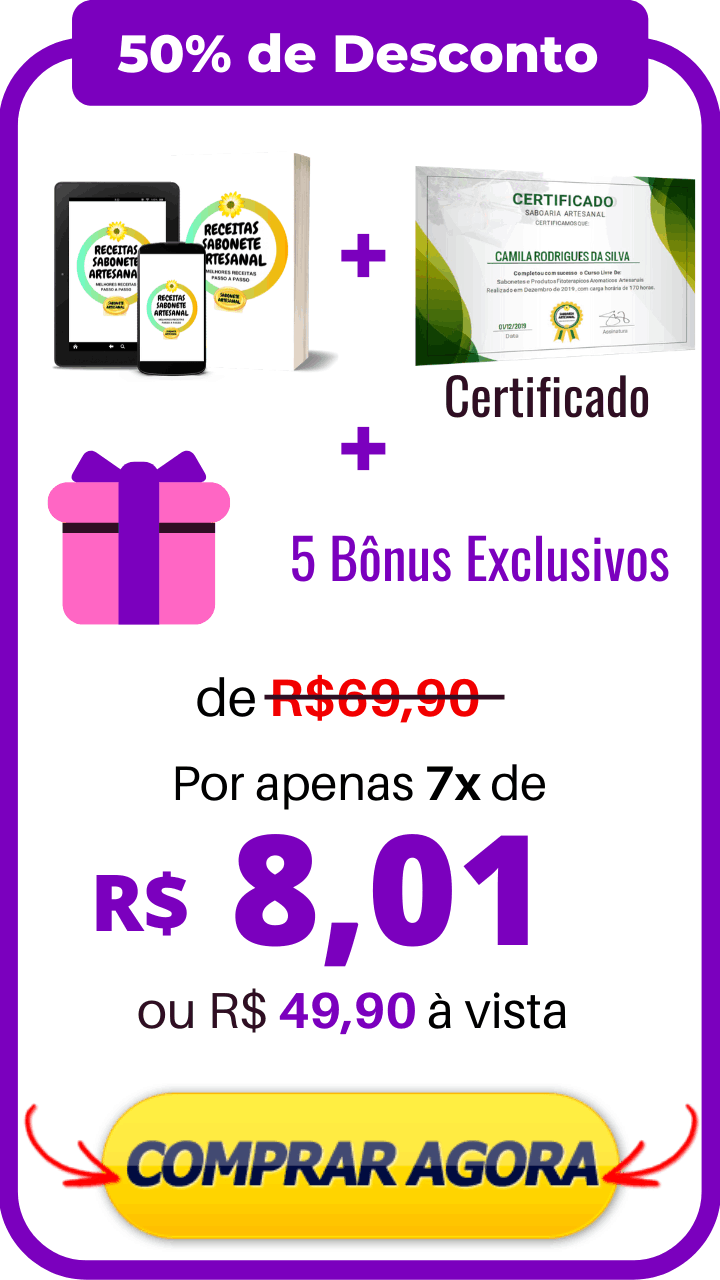
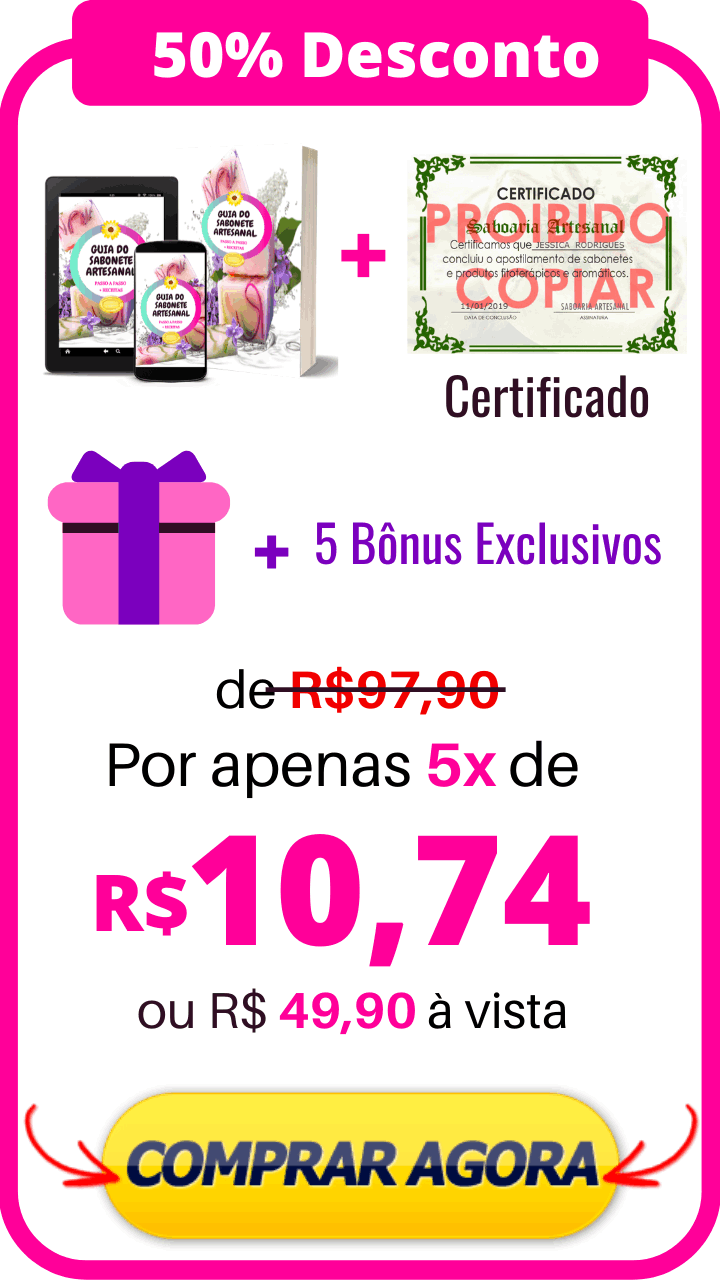
create github pages

diff --git a/index.html b/index.html
@@ -53,7 +53,7 @@
     </nav>
 </section>
 
-<section class="engine"><a href="https://mobirise.info/v">free html templates</a></section><section class="cid-rNkB3DAp2e" id="image3-33">
+<section class="engine"><a href="https://mobirise.info/k">develop free website</a></section><section class="cid-rNkB3DAp2e" id="image3-33">
 
     
 
@@ -694,36 +694,6 @@ Video como Fazer Sabonete de Camomila<br>✔ Video como fazer sabonete aromatico
     </figure>
 </section>
 
-<section class="mbr-section content5 cid-rKVz5dtmLl" id="content5-2o">
-
-    
-
-    
-
-    <div class="container">
-        <div class="media-container-row">
-            <div class="title col-12 col-md-8">
-                <h2 class="align-center mbr-bold mbr-white pb-3 mbr-fonts-style display-5">Se você tem dúvidas ou conhece Pouco esse Mercado, Vejas as Vantagens abaixo é realmente Possíveis</h2>
-                
-                
-                
-            </div>
-        </div>
-    </div>
-</section>
-
-<section class="cid-rMzMcP1l5m" id="image3-2z">
-
-    
-
-    <figure class="mbr-figure container">
-            <div class="image-block" style="width: 80%;">
-                <img src="assets/images/motivos-942x519.jpg" width="1400" alt="Mobirise" title="">
-                
-            </div>
-    </figure>
-</section>
-
 <section class="mbr-section content4 cid-rNXoWOy25l" id="content4-5d">
 
     
@@ -731,7 +701,7 @@ Video como Fazer Sabonete de Camomila<br>✔ Video como fazer sabonete aromatico
     <div class="container">
         <div class="media-container-row">
             <div class="title col-12 col-md-8">
-                <h2 class="align-center pb-3 mbr-fonts-style display-2"><strong>ADQUIRINDO ESTE PRODUTO VOCÊ ESTARÁ CONTRIBUINDO COM PROJETO NINHO</strong></h2>
+                <h2 class="align-center pb-3 mbr-fonts-style display-2"><strong>ADQUIRINDO ESTE PRODUTO VOCÊ ESTARÁ CONTRIBUINDO COM (PROJETO NINHO)</strong></h2>
                 <h3 class="mbr-section-subtitle align-center mbr-light mbr-fonts-style display-5">Transformamos familias pela educação de excelencia e impactamos comunidades</h3>
                 
             </div>
@@ -780,7 +750,7 @@ Video como Fazer Sabonete de Camomila<br>✔ Video como fazer sabonete aromatico
             <div class="card p-3 col-12 col-md-6">
                 <div class="card-wrapper">
                     <div class="card-img">
-                        <a href="https://pay.hotmart.com/F19938194F"><img src="assets/images/guia-do-sabonete-artesanal-1-720x1280.png" alt="Mobirise" title=""></a>
+                        <a href="https://pay.hotmart.com/F19938194F"><img src="assets/images/43-de-desconto-720x1280.png" alt="Mobirise" title=""></a>
                     </div>
                     <div class="card-box">
                         

diff --git a/assets/mobirise/css/mbr-additional.css b/assets/mobirise/css/mbr-additional.css
@@ -1742,32 +1742,6 @@ section.lazy-placeholder:after {
     width: 100% !important;
   }
 }
-.cid-rKVz5dtmLl {
-  padding-top: 45px;
-  padding-bottom: 45px;
-  background-color: #980dba;
-}
-.cid-rMzMcP1l5m {
-  background: #ffffff;
-  padding-top: 15px;
-  padding-bottom: 30px;
-}
-.cid-rMzMcP1l5m .image-block {
-  margin: auto;
-}
-.cid-rMzMcP1l5m figcaption {
-  position: relative;
-}
-.cid-rMzMcP1l5m figcaption div {
-  position: absolute;
-  bottom: 0;
-  width: 100%;
-}
-@media (max-width: 768px) {
-  .cid-rMzMcP1l5m .image-block {
-    width: 100% !important;
-  }
-}
 .cid-rNXoWOy25l {
   padding-top: 30px;
   padding-bottom: 15px;

diff --git a/page1.html b/page1.html
@@ -37,7 +37,7 @@
     </div>
 </section>
 
-<section class="engine"><a href="https://mobirise.info/g">how to build a website</a></section><section class="mbr-section article content9 cid-rKLfe8CObU" id="content9-2e">
+<section class="engine"><a href="https://mobirise.info/r">bootstrap template</a></section><section class="mbr-section article content9 cid-rKLfe8CObU" id="content9-2e">
     
      
 

diff --git a/page3.html b/page3.html
@@ -34,7 +34,7 @@
     </figure>
 </section>
 
-<section class="engine"><a href="https://mobirise.info/j">website templates</a></section><section class="mbr-section content4 cid-rKLjNrd2SC" id="content4-2j">
+<section class="engine"><a href="https://mobirise.info/r">free bootstrap templates</a></section><section class="mbr-section content4 cid-rKLjNrd2SC" id="content4-2j">
 
     
 

diff --git a/page2.html b/page2.html
@@ -34,7 +34,7 @@
     </figure>
 </section>
 
-<section class="engine"><a href="https://mobirise.info/j">website templates</a></section><section class="mbr-section content4 cid-rKLisfbhHN" id="content4-2g">
+<section class="engine"><a href="https://mobirise.info">Mobirise</a></section><section class="mbr-section content4 cid-rKLisfbhHN" id="content4-2g">
 
     
 

diff --git a/page4.html b/page4.html
@@ -53,7 +53,7 @@
     </nav>
 </section>
 
-<section class="engine"><a href="https://mobirise.info/h">how to create a web page for free</a></section><section class="cid-rNRdEfaSp4" id="image3-3h">
+<section class="engine"><a href="https://mobirise.info/e">make your own site for free</a></section><section class="cid-rNRdEfaSp4" id="image3-3h">
 
     
 

diff --git a/page6.html b/page6.html
@@ -50,7 +50,7 @@
     </nav>
 </section>
 
-<section class="engine"><a href="https://mobirise.info/j">website templates</a></section><section class="cid-rNRD689xDk" id="image3-51">
+<section class="engine"><a href="https://mobirise.info/b">how to create a site for free</a></section><section class="cid-rNRD689xDk" id="image3-51">
 
     
 

diff --git a/page5.html b/page5.html
@@ -53,7 +53,7 @@
     </nav>
 </section>
 
-<section class="engine"><a href="https://mobirise.info/a">online site builder</a></section><section class="cid-rNRwUErVW6" id="image3-49">
+<section class="engine"><a href="https://mobirise.info/i">free web creation software</a></section><section class="cid-rNRwUErVW6" id="image3-49">
 
     
 
